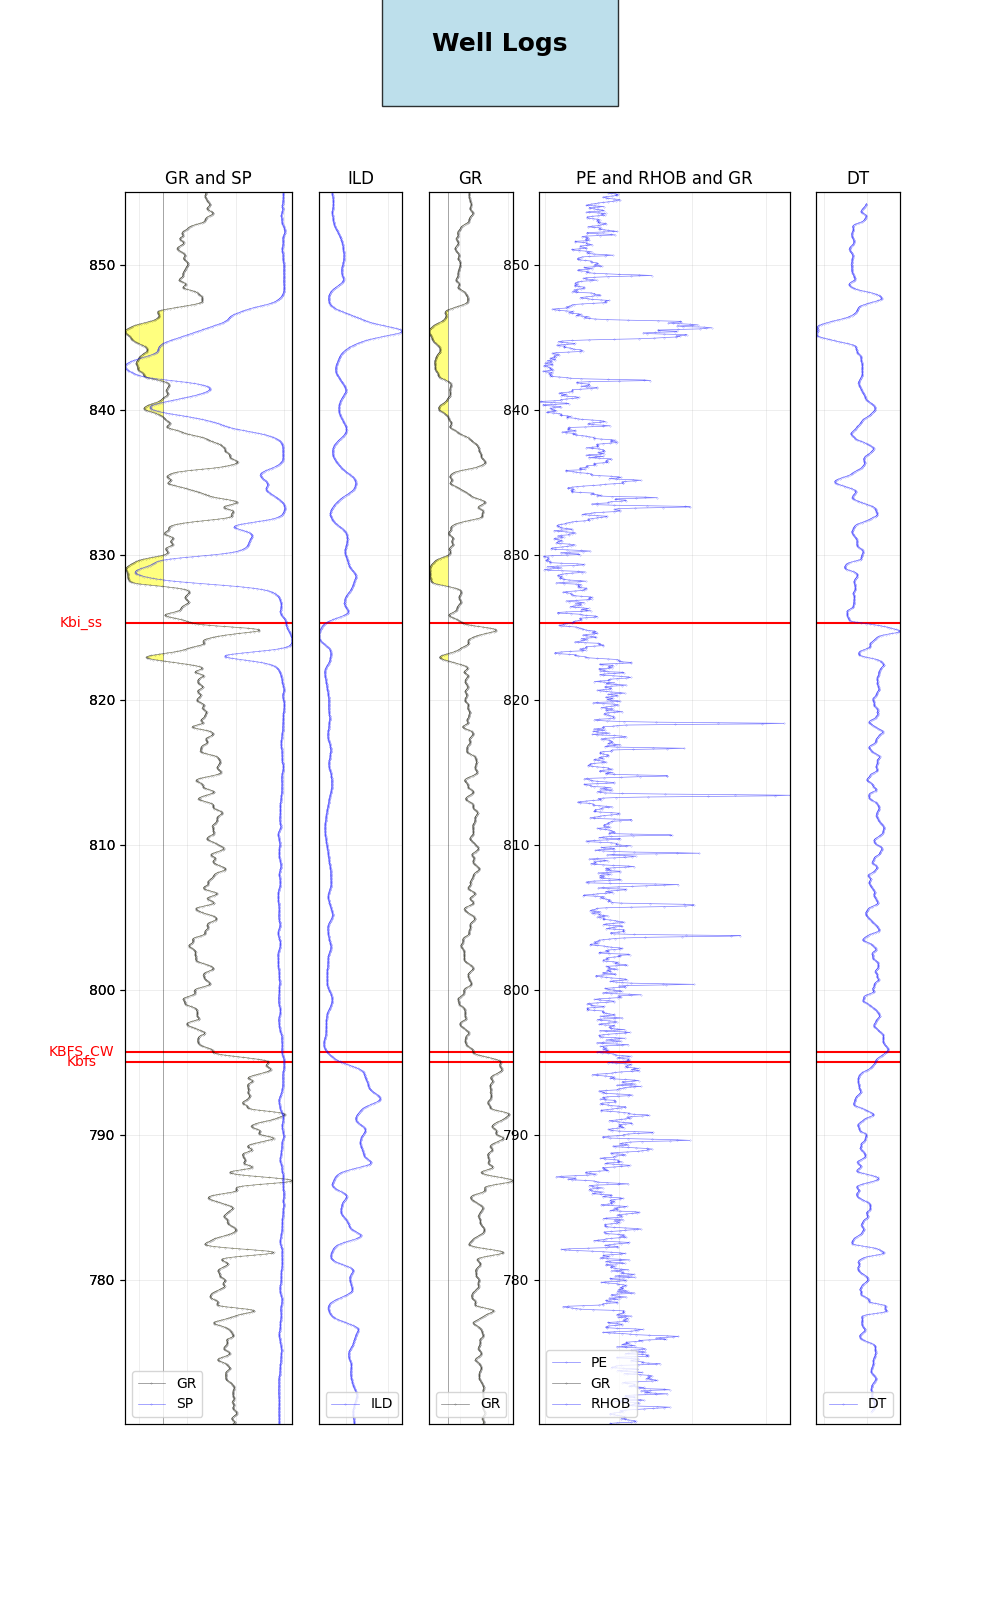
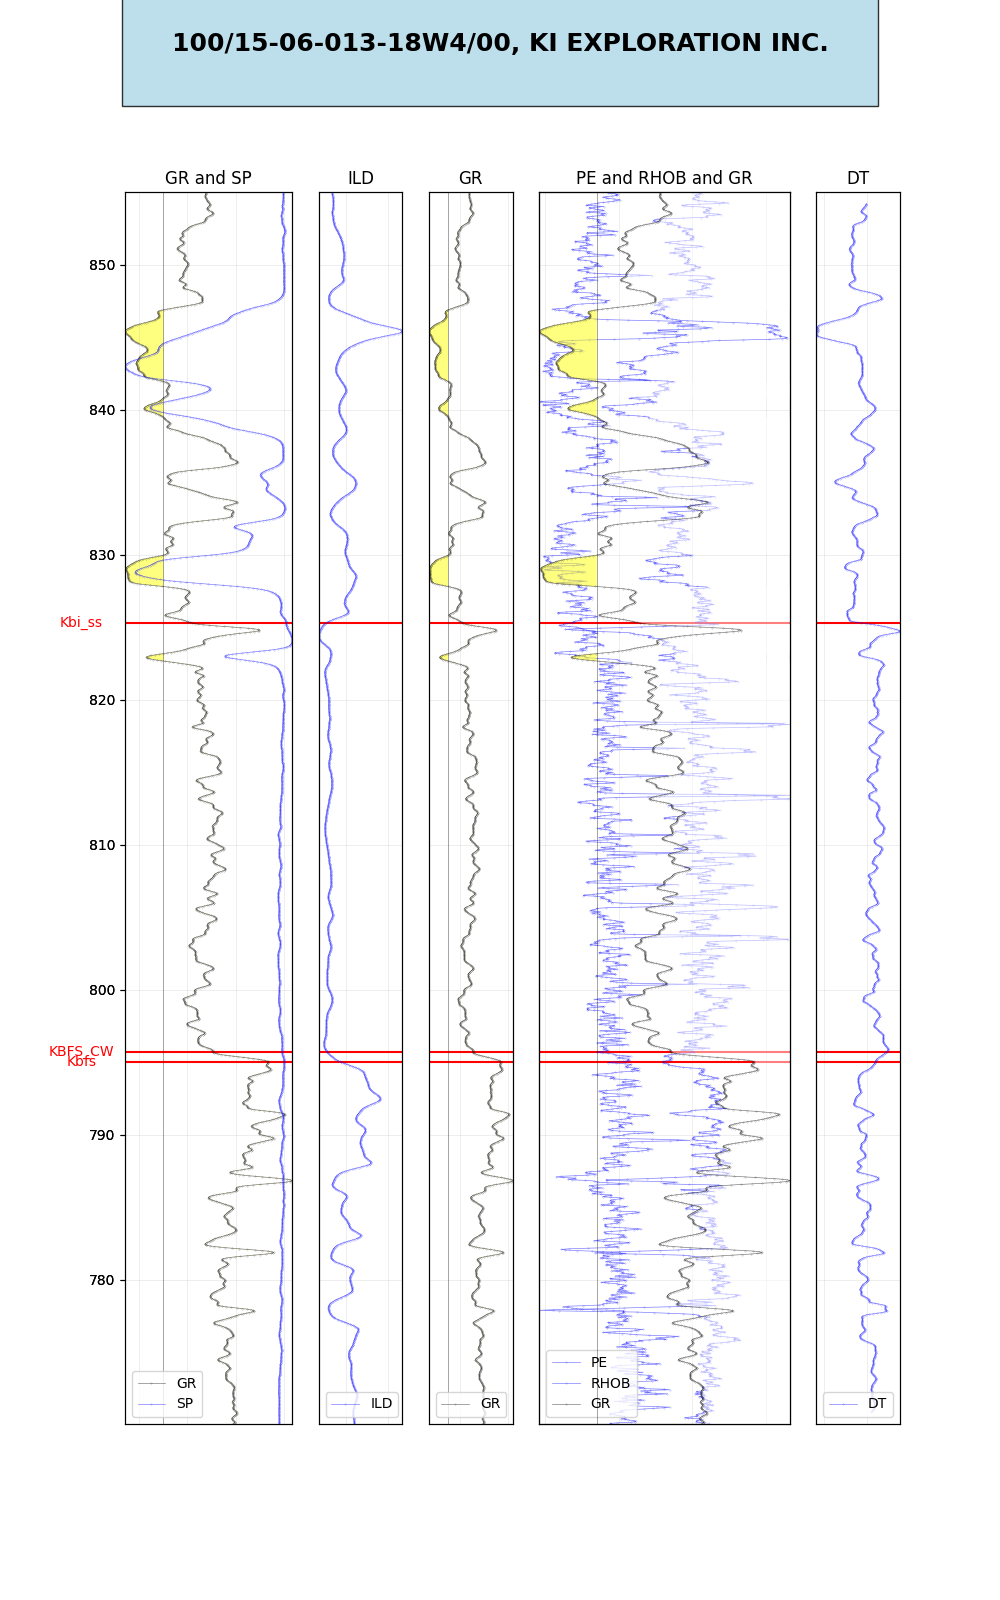
added log title

diff --git a/examples/allcurves_andy0612_driver.py b/examples/allcurves_andy0612_driver.py
@@ -148,7 +148,7 @@ def main():
         ax.grid(True, linestyle='-', alpha=0.3, linewidth=0.5)
         ax.set_title(' and '.join(curves), fontsize=12)
 
-    plt.suptitle('Well Logs', fontsize=18, fontweight='bold',
+    plt.suptitle('100/15-06-013-18W4/00, KI EXPLORATION INC.', fontsize=18, fontweight='bold',
         bbox=dict(facecolor='lightblue', edgecolor='black', boxstyle='square,pad=2', alpha=0.8))
     plt.savefig(f'../figures/all_log.png')
     plt.show()
